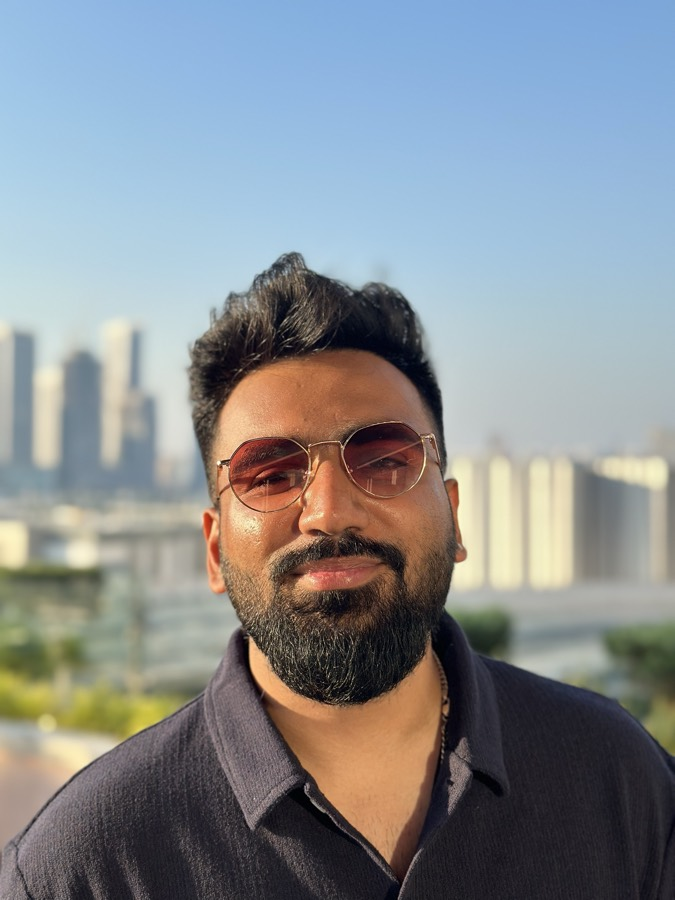
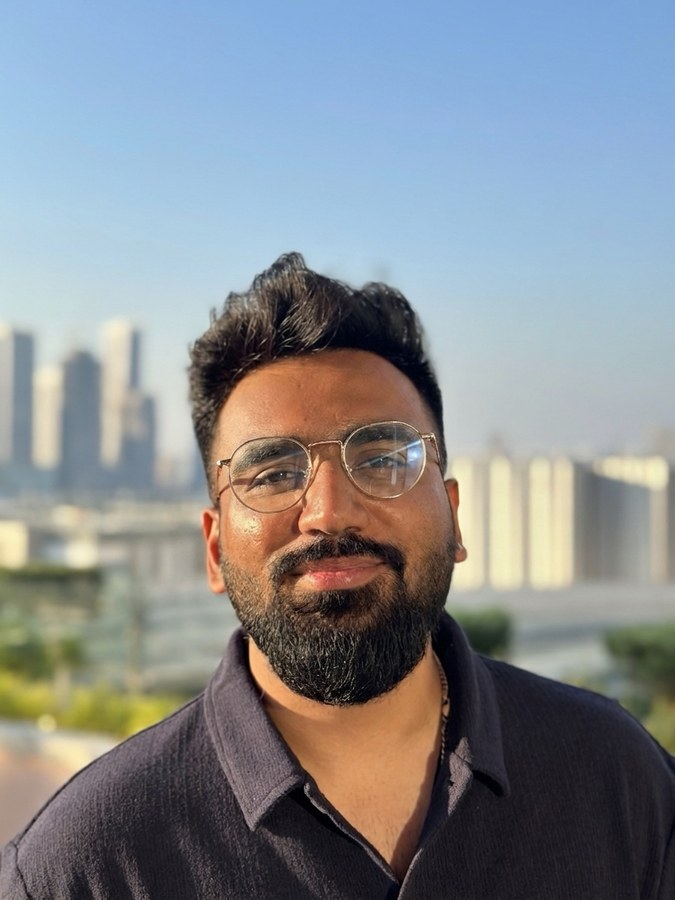
updates

diff --git a/index.html b/index.html
@@ -42,7 +42,8 @@
   "name":"Loveneesh Dhir",
   "url":"https://loveneeshdhir.com/",
   "image":"https://loveneeshdhir.com/og-image.jpg",
-  "jobTitle":"Head of Growth, Ecosystem & Partnerships",
+  "jobTitle":"Founding GTM",
+  "worksFor":{"@type":"Organization","name":"AgentTrail"},
   "description":"Builds community infrastructure, developer programs, and strategic partnerships for technology companies.",
   "email":"mailto:dhirloveneesh@gmail.com",
   "address":{"@type":"PostalAddress","addressLocality":"Delhi","addressCountry":"IN"},
@@ -758,6 +759,11 @@ body.menu-open #menu{
   letter-spacing:.05em;text-transform:uppercase;color:var(--ink-3);
   margin-bottom:.8rem;
 }
+.ex-now{
+  display:inline-flex;align-items:center;gap:.35rem;
+  color:var(--rust-2);font-weight:700;
+}
+.ex-now::before{content:'';width:5px;height:5px;border-radius:50%;background:#18A957}
 .ex-co{
   font-size:var(--t-lg);font-weight:700;font-stretch:100%;
   letter-spacing:-.018em;color:var(--ink);margin-bottom:.35rem;line-height:1.3;
@@ -1224,7 +1230,7 @@ body.deep .fab{
     <div class="hero-logos">
       <p class="hero-logos-l">Built ecosystems at</p>
       <p class="hero-logos-r">
-        <span>Union Labs</span><span>Shardeum</span><span>Hashed Emergent</span><span>OG Club</span><span>Commudle</span><span>Scaler</span>
+        <span>AgentTrail</span><span>Union Labs</span><span>Shardeum</span><span>Hashed Emergent</span><span>OG Club</span><span>Commudle</span><span>Scaler</span>
       </p>
     </div>
   </div>
@@ -1498,9 +1504,21 @@ body.deep .fab{
     <div class="sec-head r">
       <p class="label">Experience</p>
       <h2 class="sec-h">Where I&rsquo;ve built</h2>
-      <p class="sec-sub">Eight roles, built market by market across APAC, MENA, and LATAM. Always from zero, always with a measurable outcome.</p>
+      <p class="sec-sub">Nine roles, built market by market across APAC, MENA, and LATAM. Always from zero, always with a measurable outcome.</p>
     </div>
     <div class="exp-list" id="expList">
+
+      <article class="exp-row r">
+        <div class="ex-meta">
+          <p class="ex-date">Sep 2026 &ndash; <span class="ex-now">Present</span></p>
+          <p class="ex-co"><a href="https://agenttrail.sh" target="_blank" rel="noopener">AgentTrail</a></p>
+          <p class="ex-co-sub">Observability, governance, and real-time enforcement for AI coding agents.</p>
+        </div>
+        <div class="ex-body">
+          <h3 class="ex-role">Founding GTM</h3>
+          <p class="ex-context"><strong>Challenge:</strong> Take an AI infrastructure product to market in a category that is still being defined, where the buyer is only now working out how to govern coding agents. <strong>Action:</strong> Joined as the founding GTM hire, owning positioning, pipeline, and early adoption from zero.</p>
+        </div>
+      </article>
 
       <article class="exp-row r">
         <div class="ex-meta">

diff --git a/build.py b/build.py
@@ -96,7 +96,8 @@ TPL = r'''<!DOCTYPE html>
   "name":"Loveneesh Dhir",
   "url":"https://loveneeshdhir.com/",
   "image":"https://loveneeshdhir.com/og-image.jpg",
-  "jobTitle":"Head of Growth, Ecosystem & Partnerships",
+  "jobTitle":"Founding GTM",
+  "worksFor":{"@type":"Organization","name":"AgentTrail"},
   "description":"Builds community infrastructure, developer programs, and strategic partnerships for technology companies.",
   "email":"mailto:dhirloveneesh@gmail.com",
   "address":{"@type":"PostalAddress","addressLocality":"Delhi","addressCountry":"IN"},
@@ -812,6 +813,11 @@ body.menu-open #menu{
   letter-spacing:.05em;text-transform:uppercase;color:var(--ink-3);
   margin-bottom:.8rem;
 }
+.ex-now{
+  display:inline-flex;align-items:center;gap:.35rem;
+  color:var(--rust-2);font-weight:700;
+}
+.ex-now::before{content:'';width:5px;height:5px;border-radius:50%;background:#18A957}
 .ex-co{
   font-size:var(--t-lg);font-weight:700;font-stretch:100%;
   letter-spacing:-.018em;color:var(--ink);margin-bottom:.35rem;line-height:1.3;
@@ -1278,7 +1284,7 @@ body.deep .fab{
     <div class="hero-logos">
       <p class="hero-logos-l">Built ecosystems at</p>
       <p class="hero-logos-r">
-        <span>Union Labs</span><span>Shardeum</span><span>Hashed Emergent</span><span>OG Club</span><span>Commudle</span><span>Scaler</span>
+        <span>AgentTrail</span><span>Union Labs</span><span>Shardeum</span><span>Hashed Emergent</span><span>OG Club</span><span>Commudle</span><span>Scaler</span>
       </p>
     </div>
   </div>
@@ -1552,9 +1558,21 @@ body.deep .fab{
     <div class="sec-head r">
       <p class="label">Experience</p>
       <h2 class="sec-h">Where I&rsquo;ve built</h2>
-      <p class="sec-sub">Eight roles, built market by market across APAC, MENA, and LATAM. Always from zero, always with a measurable outcome.</p>
+      <p class="sec-sub">Nine roles, built market by market across APAC, MENA, and LATAM. Always from zero, always with a measurable outcome.</p>
     </div>
     <div class="exp-list" id="expList">
+
+      <article class="exp-row r">
+        <div class="ex-meta">
+          <p class="ex-date">Sep 2026 &ndash; <span class="ex-now">Present</span></p>
+          <p class="ex-co"><a href="https://agenttrail.sh" target="_blank" rel="noopener">AgentTrail</a></p>
+          <p class="ex-co-sub">Observability, governance, and real-time enforcement for AI coding agents.</p>
+        </div>
+        <div class="ex-body">
+          <h3 class="ex-role">Founding GTM</h3>
+          <p class="ex-context"><strong>Challenge:</strong> Take an AI infrastructure product to market in a category that is still being defined, where the buyer is only now working out how to govern coding agents. <strong>Action:</strong> Joined as the founding GTM hire, owning positioning, pipeline, and early adoption from zero.</p>
+        </div>
+      </article>
 
       <article class="exp-row r">
         <div class="ex-meta">
